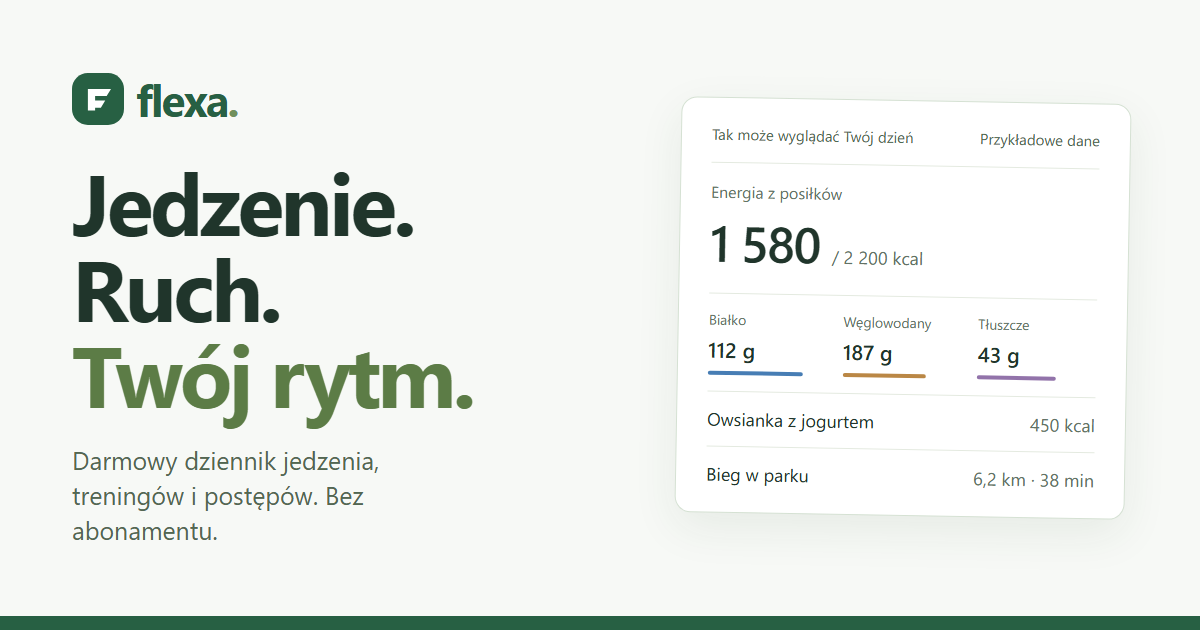
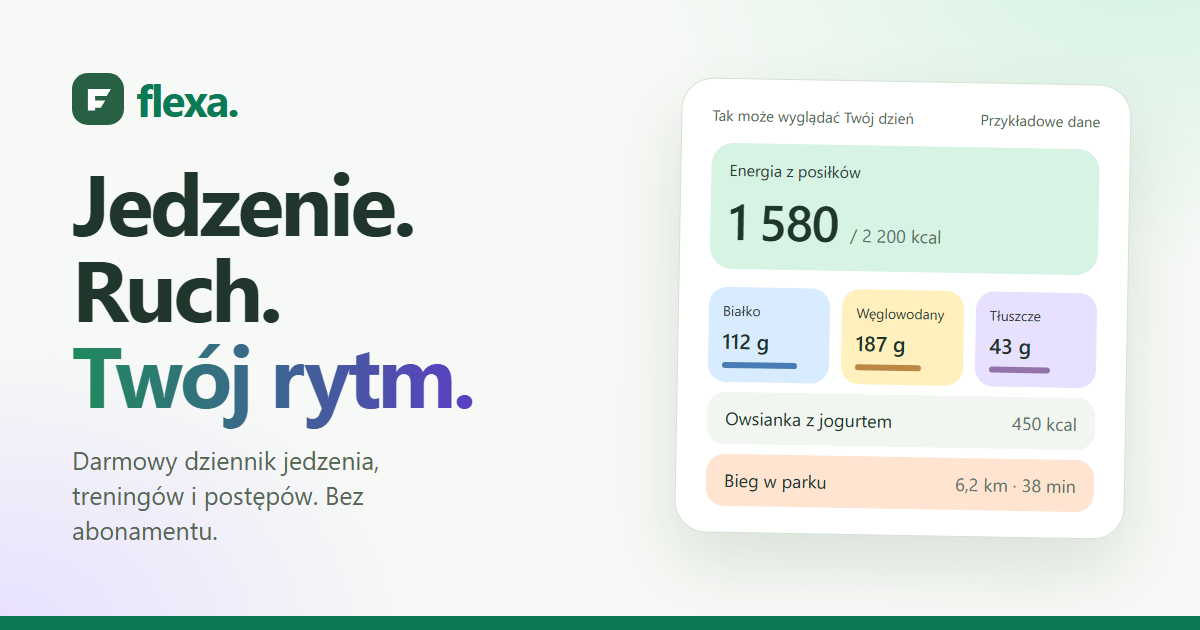
New social card in the modern style and a Skan step in the first-steps list

diff --git a/app/src/components/FirstSteps.tsx b/app/src/components/FirstSteps.tsx
@@ -33,6 +33,7 @@ export function FirstSteps() {
     { done: Boolean(state.goals || data.goals.cycles.length), label: 'Sprawdź swoje cele kalorii i makro', action: <Link to="/goals">Ustaw cele</Link> },
     { done: data.meals.length > 0, label: 'Zapisz pierwszy posiłek', action: <button type="button" className="text-link" onClick={() => openMeal()}>Wybierz produkt</button> },
     { done: data.water.length > 0, label: 'Dodaj szklankę wody', action: <button type="button" className="text-link" onClick={openQuickAdd}>Otwórz „Dodaj”</button> },
+    { done: data.meals.some((meal) => meal.food.name.endsWith('(skan)')), label: 'Wypróbuj Skan posiłku ze zdjęcia', action: <Link to="/meals/scan">Skanuj posiłek</Link> },
     { done: Boolean(data.training.plan), label: 'Ułóż plan treningowy', action: <Link to="/plan/new">Ułóż plan</Link> },
   ]
   const done = steps.filter((step) => step.done).length
